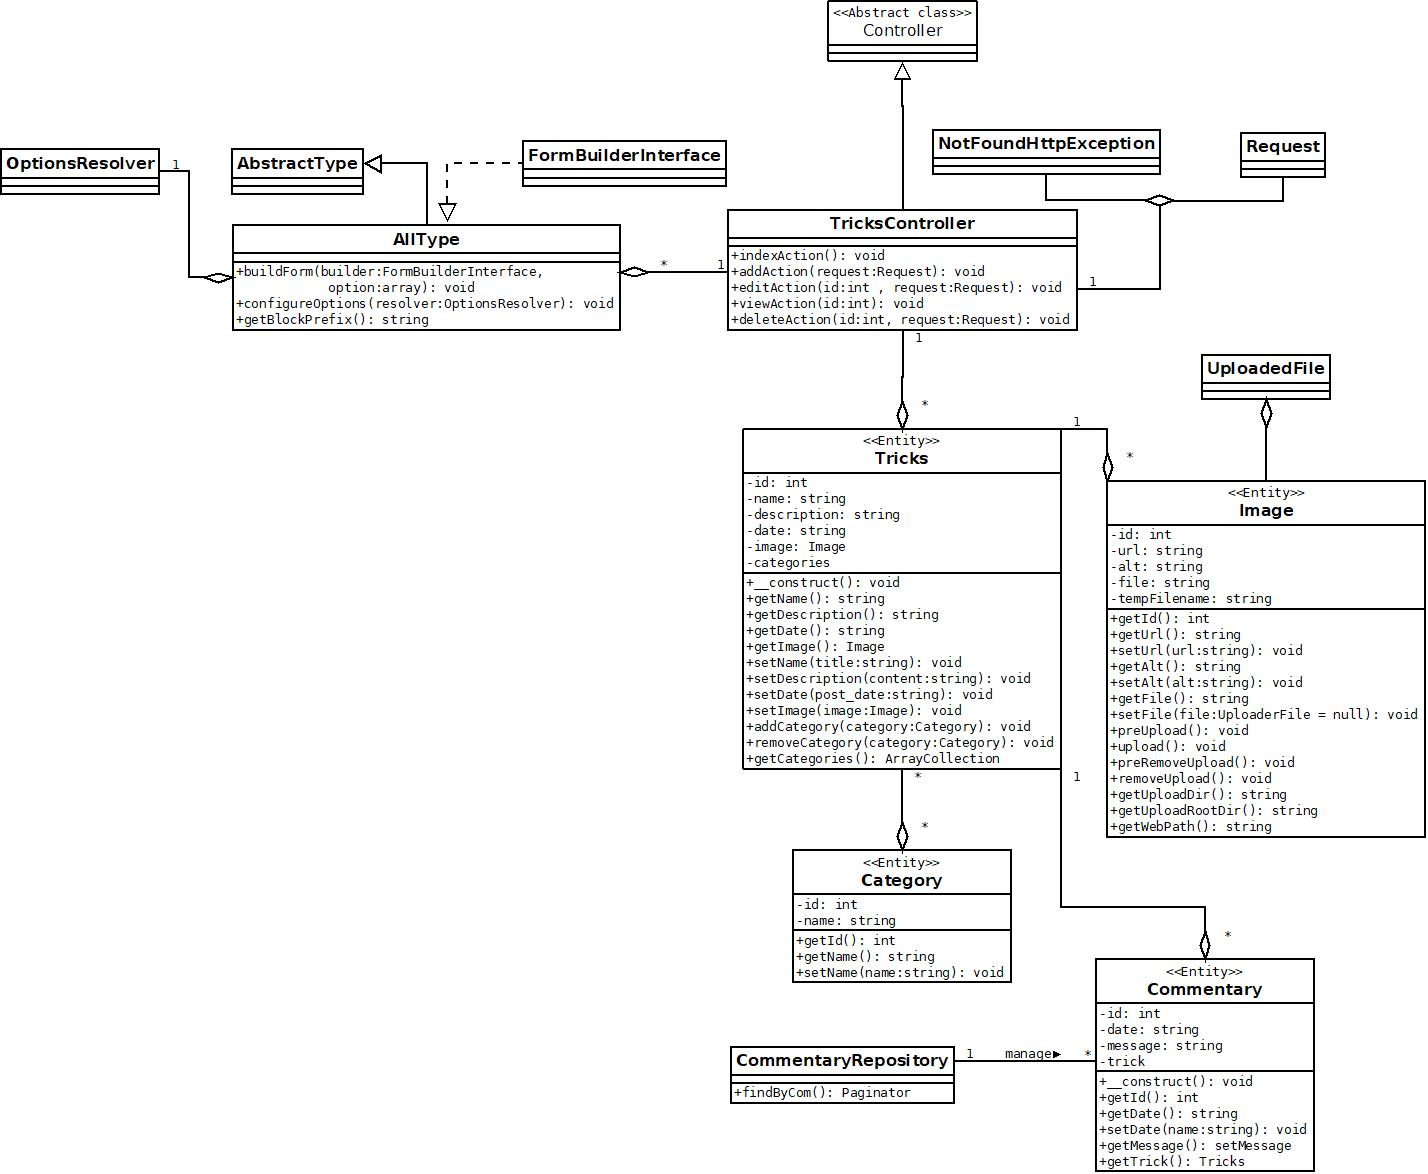
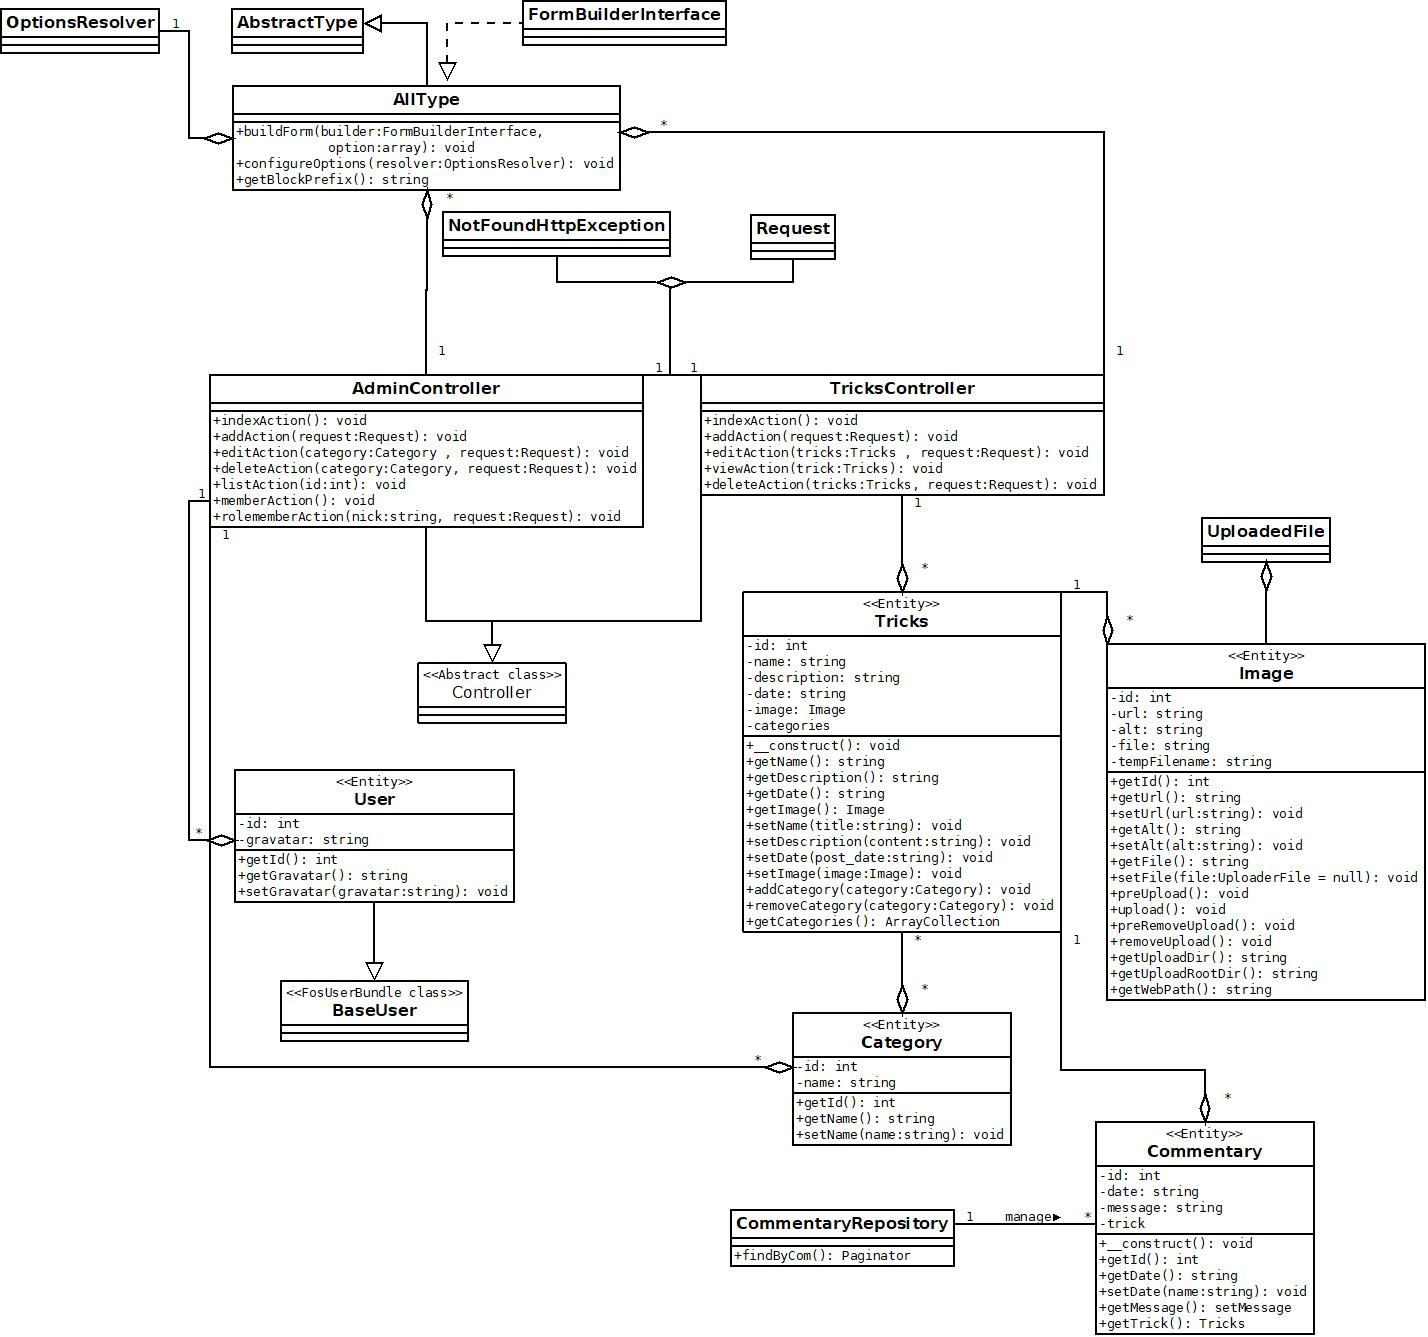
added all uml, a possibility to change your gravatar, update the readme

diff --git a/src/S7tH/UserBundle/Form/ProfileType.php b/src/S7tH/UserBundle/Form/ProfileType.php
@@ -9,7 +9,7 @@ use Symfony\Component\Form\Extension\Core\Type\EmailType;
 
 use Symfony\Component\OptionsResolver\OptionsResolver;
 
-class RegistrationType extends AbstractType
+class ProfileType extends AbstractType
 {
     /**
      * {@inheritdoc}
@@ -25,7 +25,7 @@ class RegistrationType extends AbstractType
     //we use this function to use the Fos form with this one
     public function getParent()
     {
-        return 'FOS\UserBundle\Form\Type\RegistrationFormType';
+        return 'FOS\UserBundle\Form\Type\ProfileFormType';
     }
 
     /**
@@ -43,7 +43,7 @@ class RegistrationType extends AbstractType
      */
     public function getBlockPrefix()
     {
-        return 's7th_userbundle_registration';
+        return 's7th_userbundle_profile';
     }
 
 

diff --git a/src/S7tH/DirectoryBundle/Controller/TricksController.php b/src/S7tH/DirectoryBundle/Controller/TricksController.php
@@ -133,8 +133,7 @@ class TricksController extends Controller
         // with param converter this lines are useless
         */
 
-       
-        
+
         //we recover the user instance for our commentary
         $user = $this->getUser();
         $commentary = null;
@@ -151,7 +150,7 @@ class TricksController extends Controller
         
         //create the formBuilder
         $form = $this->get('form.factory')->create(CommentaryType::class, $commentary);
-        
+
         //if a commentary form has been send we save the commentary after a check up on it.
         if ($request->isMethod('POST') && $form->handleRequest($request)->isValid())
         {

diff --git a/src/S7tH/UserBundle/Entity/User.php b/src/S7tH/UserBundle/Entity/User.php
@@ -28,8 +28,8 @@ class User extends BaseUser
     /**
      * @var string
      *
-     * @ORM\Column(name="gravatar", type="string", length=40, unique=true)
-     * @Assert\NotBlank(message="Merci d'entrer votre adresse gravatar.", groups={"Registration", "Profile"})
+     * @ORM\Column(name="gravatar", type="string", length=40, nullable=true)
+     * @Assert\Email()
      */
     protected $gravatar;
 

diff --git a/src/S7tH/DirectoryBundle/Controller/AdminController.php b/src/S7tH/DirectoryBundle/Controller/AdminController.php
@@ -23,9 +23,7 @@ use Sensio\Bundle\FrameworkExtraBundle\Configuration\Security;
 
 class AdminController extends Controller
 {
-    /**
-     * @Security("has_role('ROLE_ADMIN')")
-     */
+
     public function indexAction()
     {
         return $this->render('S7tHDirectoryBundle:Administration:index.html.twig');

diff --git a/web/config.php b/web/config.php
@@ -22,7 +22,7 @@ if (!in_array(@$_SERVER['REMOTE_ADDR'], array(
     exit('This script is only accessible from localhost.');
 }
 
-require_once dirname(__FILE__).'/./SymfonyRequirements.php';
+require_once dirname(__FILE__).'/../var/SymfonyRequirements.php';
 
 $symfonyRequirements = new SymfonyRequirements();
 

diff --git a/web/app.php b/web/app.php
@@ -8,7 +8,7 @@ if (PHP_VERSION_ID < 70000) {
     include_once __DIR__.'/../var/bootstrap.php.cache';
 }
 
-$kernel = new AppKernel('prod', false);
+$kernel = new AppKernel('prod', true);
 if (PHP_VERSION_ID < 70000) {
     $kernel->loadClassCache();
 }

diff --git a/README.md b/README.md
@@ -3,5 +3,22 @@ Snowtrickmania
 
 A Symfony project created on June 28, 2017, 12:49 pm.
 
-1) Adapt your data base parameters in the following folder :
-    -app/config/parameters.yml
+Snowtrickmania
+
+A Symfony project created on June 28, 2017, 12:49 pm.
+
+    1) Adapt your data base parameters in the following folder : "app/config/parameters.yml"
+
+    2 )Create your Databse with the following command : "php bin/console doctrine:database:create"
+
+    3) Generate your tables : "php bin/console doctrine:schema:update --force
+
+    4) Create a Super_Admin :
+
+        php bin/console fos:user:create yournameuser yourmail@example.com yourpassword --super-admin
+
+        (remove --super-admin if you want create a simple account without rights)
+
+    5) Import a sample of several pre-made tricks : "php bin/console tricks:specimen"
+
+The site is operational
